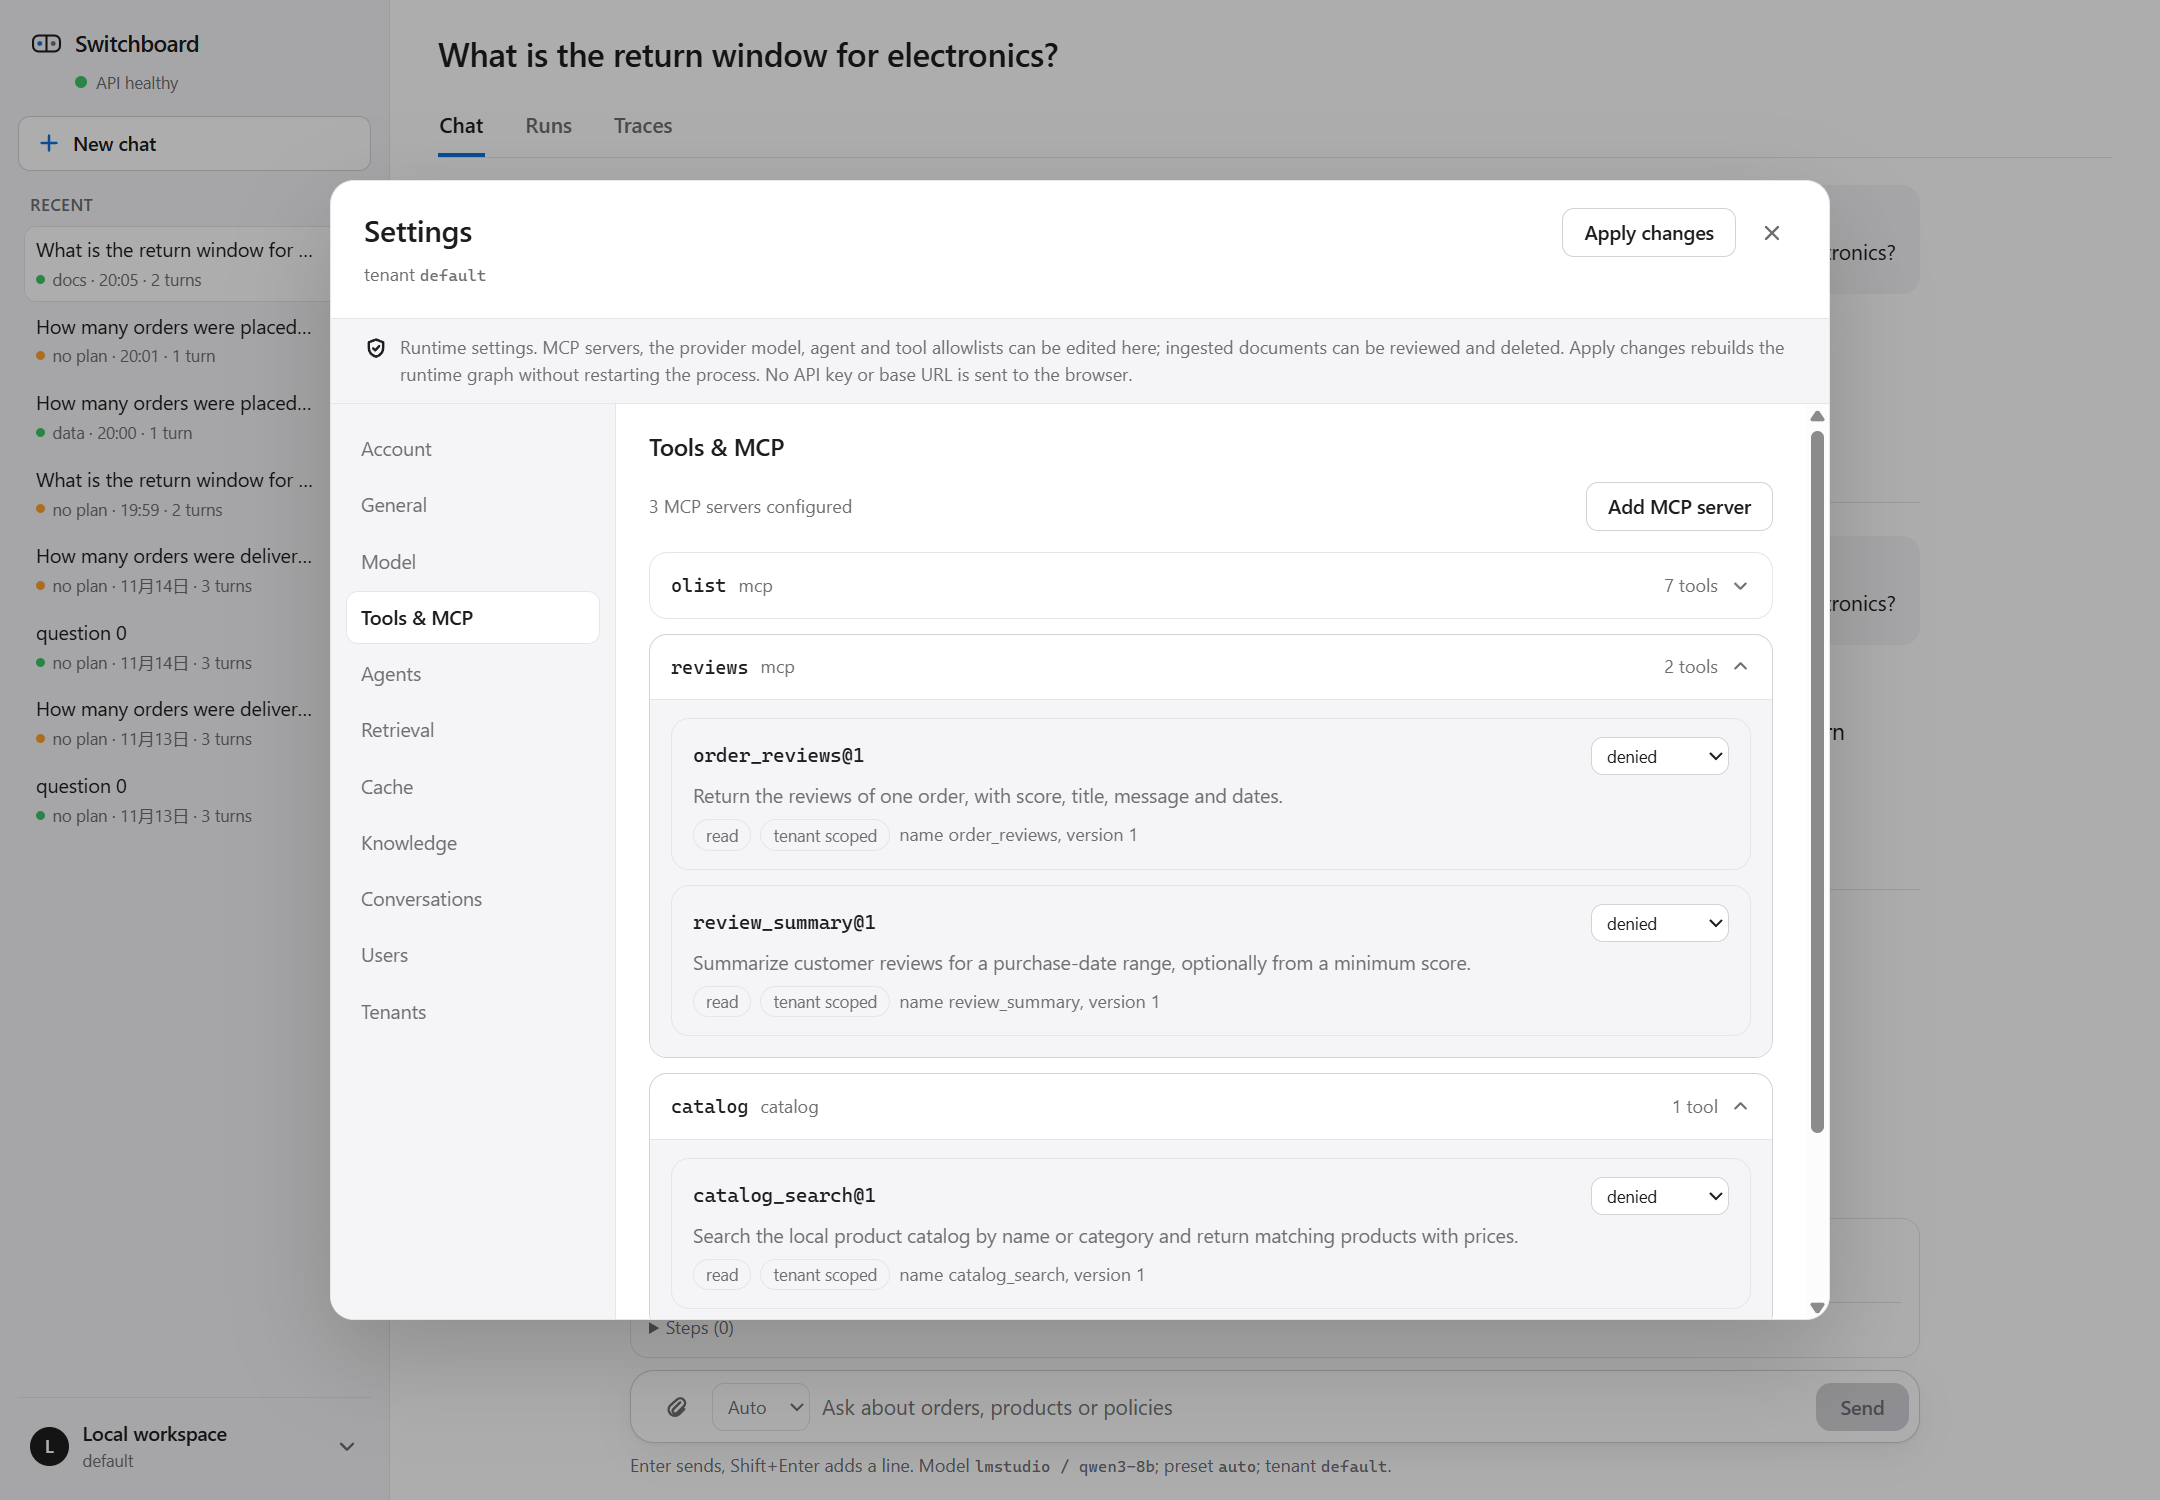
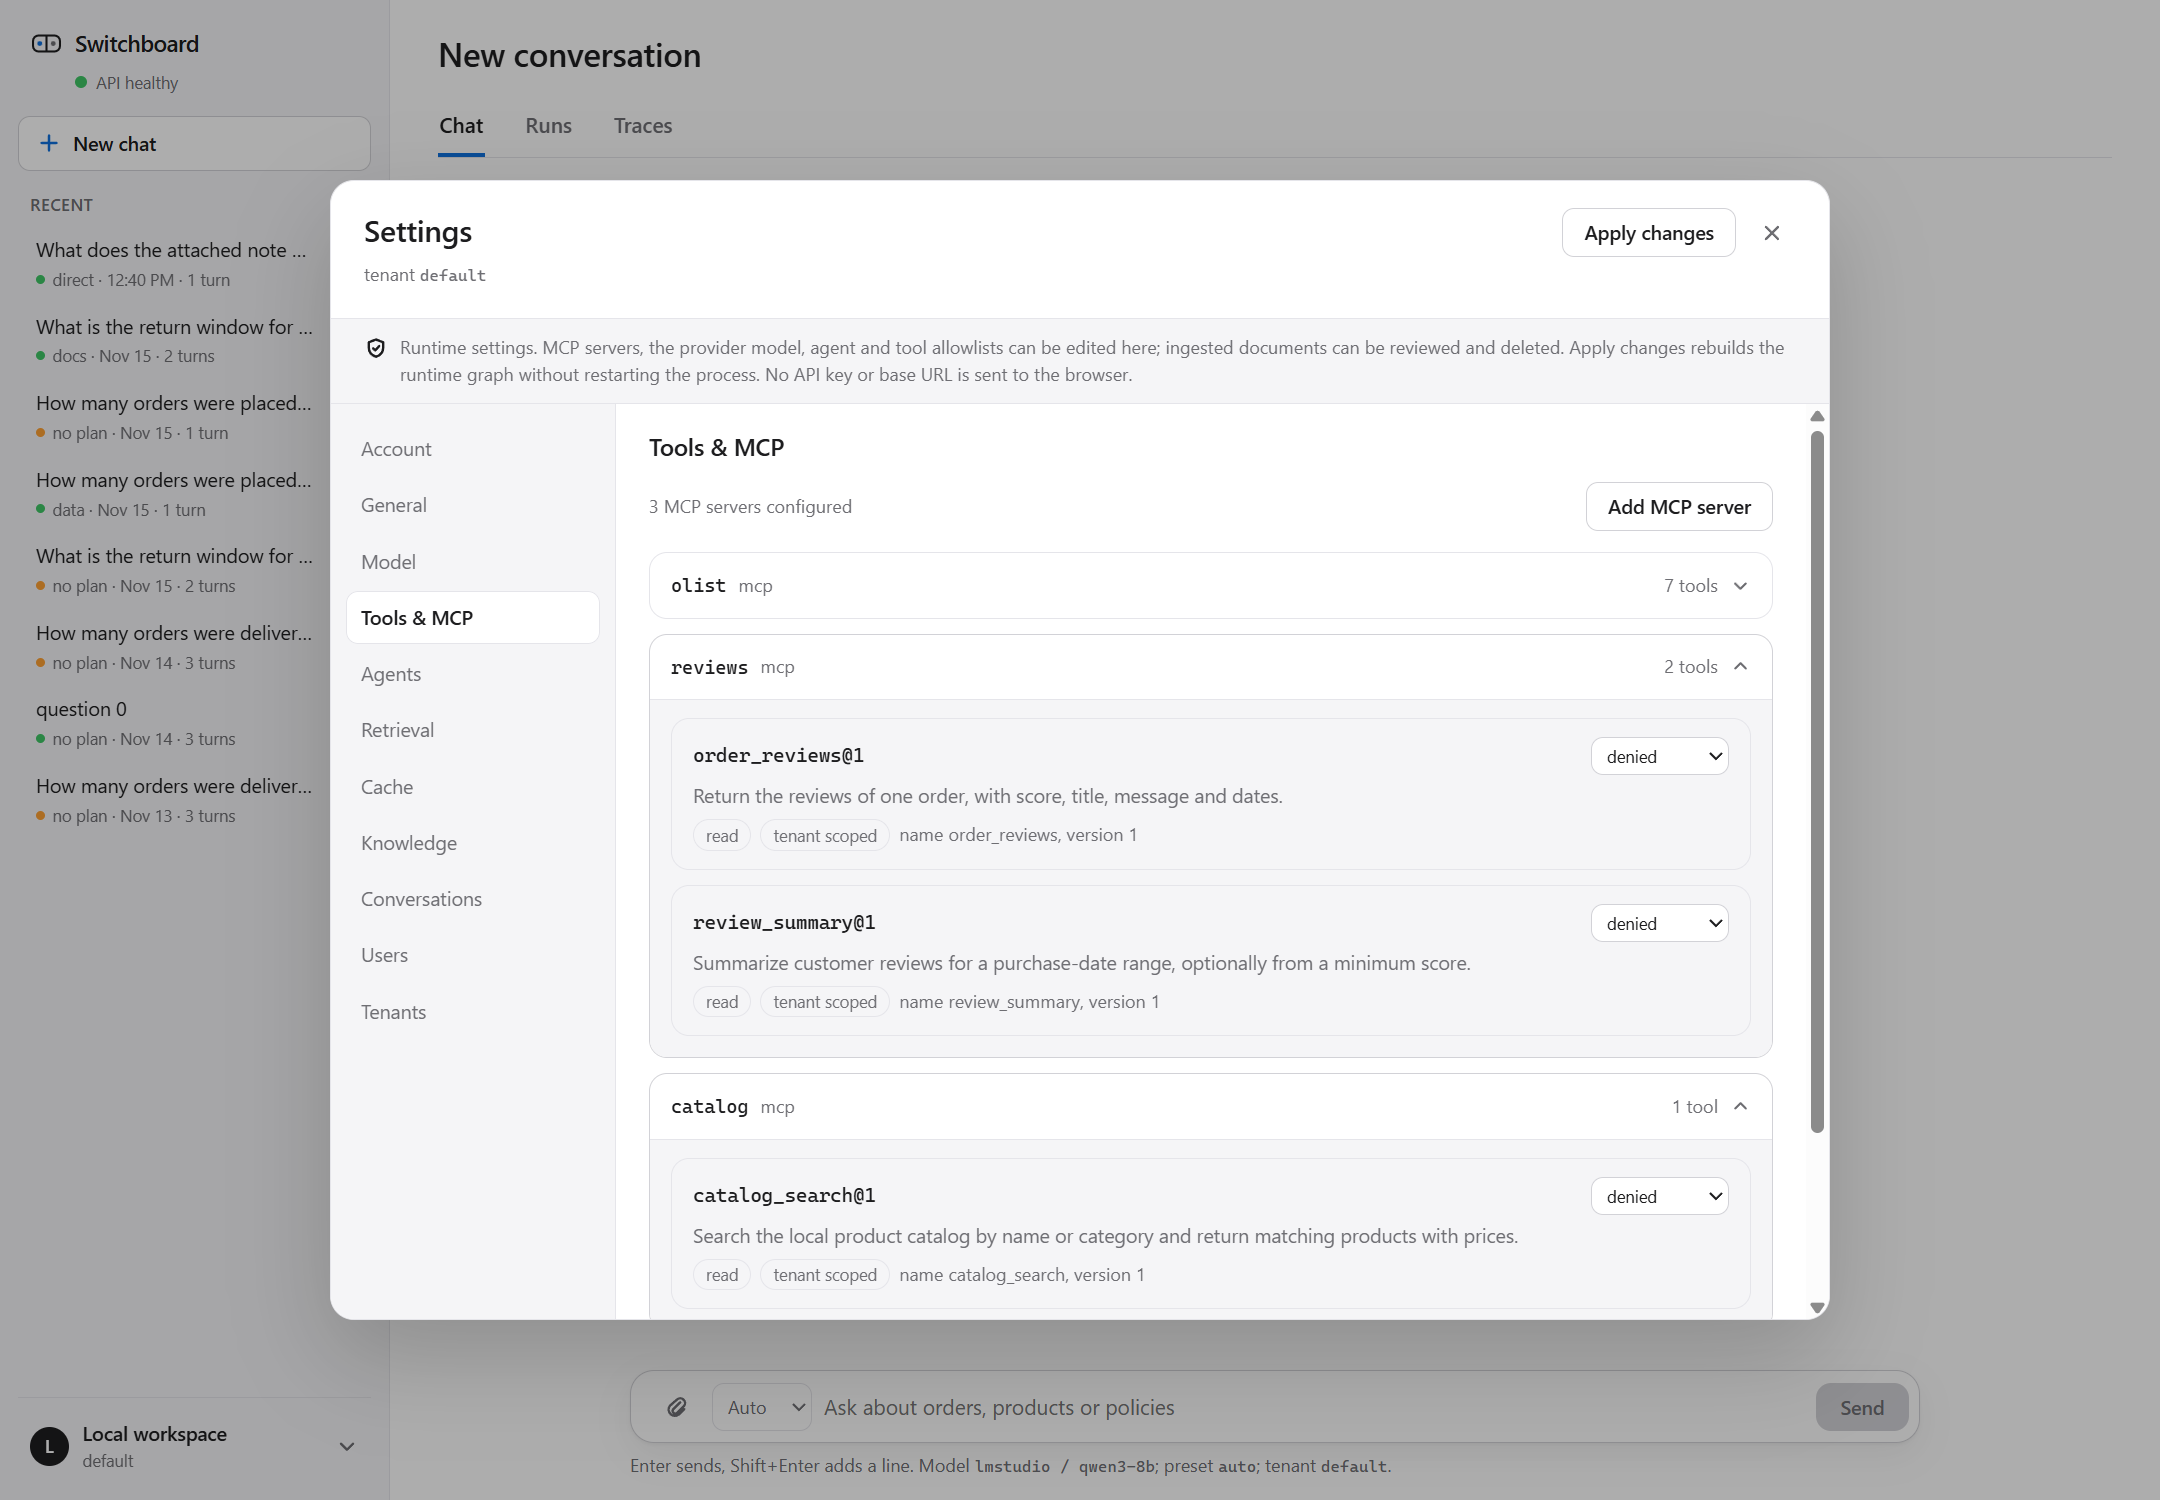
V3.08: run the catalog as a standalone MCP server

diff --git a/mcp_servers/catalog/server.py b/mcp_servers/catalog/server.py
@@ -1,0 +1,98 @@
+"""Catalog MCP server (V3.08).
+
+A standalone, read-only non-Olist connector. It verifies the signed run token,
+allows only the tenant named by CATALOG_TENANT, and serves one tool from the
+committed catalog JSON. Run with ``python -m mcp_servers.catalog.server``.
+"""
+
+from __future__ import annotations
+
+import json
+import os
+from pathlib import Path
+from typing import Any
+
+from mcp.server.mcpserver import Context, MCPServer
+from mcp.server.mcpserver.exceptions import ToolError
+from pydantic import Field
+from starlette.requests import Request
+from starlette.responses import JSONResponse, Response
+
+from mcp_servers.olist.auth import TokenError, bearer_token, verify_token
+from mcp_servers.olist.settings import load_manifest
+
+ROOT = Path(__file__).resolve().parents[2]
+MANIFEST = load_manifest(Path(__file__).with_name("manifest.yaml"))
+DATA = ROOT / "data" / "catalog" / "products.json"
+WIRE_NAME = "catalog_search@1"
+ALLOWED_TENANT = os.environ.get("CATALOG_TENANT", "acme")
+
+mcp = MCPServer(
+    "catalog",
+    version="1.0.0",
+    instructions="Read-only local product catalog. One tool: catalog_search@1.",
+)
+
+
+@mcp.tool(
+    name=WIRE_NAME,
+    description=MANIFEST[WIRE_NAME].description,
+    meta={
+        "switchboard": {
+            "version": MANIFEST[WIRE_NAME].version,
+            "risk": MANIFEST[WIRE_NAME].risk,
+            "tenant_scoped": MANIFEST[WIRE_NAME].tenant_scoped,
+            "sensitive_args": list(MANIFEST[WIRE_NAME].sensitive_args),
+        }
+    },
+)
+async def catalog_search(
+    ctx: Context[Any, Any],
+    query: str = Field(min_length=1, max_length=120),
+    limit: int = Field(default=10, ge=1, le=20),
+) -> dict[str, Any]:
+    try:
+        headers = ctx.headers or {}
+    except ValueError:
+        headers = {}
+    secret = os.environ.get("SWITCHBOARD_RUN_TOKEN_SECRET", "")
+    try:
+        claims = verify_token(bearer_token(headers), secret)
+    except TokenError as exc:
+        raise ToolError(f"unauthorized: {exc}") from exc
+    if claims.tenant_id != ALLOWED_TENANT:
+        raise ToolError(f"tenant {claims.tenant_id!r} may not use this connector")
+    products = json.loads(DATA.read_text(encoding="utf-8"))
+    needle = query.casefold()
+    rows = [
+        item
+        for item in products
+        if needle in str(item.get("name", "")).casefold()
+        or needle in str(item.get("category", "")).casefold()
+    ][:limit]
+    return {
+        "total_rows": len(rows),
+        "summary": {"query": query, "returned": len(rows)},
+        "rows": rows,
+    }
+
+
+@mcp.custom_route("/health", methods=["GET"])  # type: ignore[untyped-decorator]
+async def health(_: Request) -> Response:
+    return JSONResponse(
+        {"status": "ok", "service": "mcp-catalog", "tools": len(MANIFEST)},
+        status_code=200,
+    )
+
+
+def main() -> None:
+    mcp.run(
+        transport="streamable-http",
+        host="0.0.0.0",
+        port=int(os.environ.get("MCP_CATALOG_PORT", "8003")),
+        stateless_http=True,
+    )
+
+
+if __name__ == "__main__":
+    main()

diff --git a/tests/unit/test_reviews_manifest.py b/tests/unit/test_reviews_manifest.py
@@ -16,6 +16,7 @@ REVIEWS_MANIFEST = REPO / "mcp_servers" / "reviews" / "manifest.yaml"
 ENV = {
     "MCP_OLIST_URL": "http://localhost:8001",
     "MCP_REVIEWS_URL": "http://localhost:8002",
+    "MCP_CATALOG_URL": "http://localhost:8003",
     "LMSTUDIO_BASE_URL": "http://localhost:18080/v1",
     "LMSTUDIO_MODEL": "qwen3-8b",
     "LMSTUDIO_EMBEDDING_MODEL": "bge-m3",
@@ -42,7 +43,8 @@ def test_the_committed_config_declares_both_sources() -> None:
     names = {source.name for source in settings.platform.tool_sources}
     assert names == {"catalog", "olist", "reviews"}
     catalog = next(s for s in settings.platform.tool_sources if s.name == "catalog")
-    assert catalog.adapter == "catalog"
+    assert catalog.adapter == "mcp"
+    assert catalog.url == "http://localhost:8003/mcp"
     reviews = next(s for s in settings.platform.tool_sources if s.name == "reviews")
     assert reviews.adapter == "mcp"
     assert reviews.url == "http://localhost:8002/mcp"

diff --git a/mcp_servers/catalog/__init__.py b/mcp_servers/catalog/__init__.py
@@ -1,0 +1,1 @@
+"""Standalone catalog MCP server (V3.08)."""

diff --git a/README.md b/README.md
@@ -87,7 +87,7 @@ uv run --env-file .env switchboard eval compare
 
 ## Quick start
 
-This path is tested from a fresh clone on Windows 11 with Docker Desktop and LM Studio on the host. It starts four containers, loads the 1000-order sample and ingests five synthetic policy documents. The five minute tour is in [docs/demo.md](docs/demo.md).
+This path is tested from a fresh clone on Windows 11 with Docker Desktop and LM Studio on the host. It starts the compose stack, loads the 1000-order sample and ingests five synthetic policy documents. The five minute tour is in [docs/demo.md](docs/demo.md).
 
 ### Prerequisites
 
@@ -145,7 +145,7 @@ docker compose up -d --build
 docker compose ps
 ```
 
-The first build installs Python and Node dependencies inside the images, so it can take a few minutes on a cold cache. Wait until all six services (`postgres`, `mcp-olist`, `mcp-reviews`, `valkey`, `api`, `web`) show `healthy`.
+The first build installs Python and Node dependencies inside the images, so it can take a few minutes on a cold cache. Wait until all services (`postgres`, `mcp-olist`, `mcp-reviews`, `mcp-catalog`, `valkey`, `api`, `web`) show `healthy`.
 
 The `valkey` service is the second cache store from the v2 comparison. The default config keeps `cache: pg_semantic`, so nothing depends on it and the API never contacts it; leave it running (it is idle and small) or stop it with `docker compose stop valkey`. Switching the semantic cache to it is `cache: valkey_semantic` in `config/platform.yaml` plus `VALKEY_URL`, and the measured comparison is in [evals/reports/cache-adapters.md](evals/reports/cache-adapters.md).
 
@@ -201,6 +201,8 @@ On a fresh database this reports `documents added 5, updated 0, unchanged 0` and
 
 The cross-tenant demo uses a second tenant, `seller_a`, restricted to one seller. Give it the same documents with `uv run --env-file .env switchboard ingest data/documents --tenant seller_a`; retrieval, the run list and traces are then tenant isolated in the UI and the API. `seller_a` also allows the two review tools served by the second MCP server, `mcp-reviews` (TypeScript, port 8002): `review_summary@1` and `order_reviews@1`. The default tenant does not, so its tool list and the eval reports are unchanged. To try them, pick tenant `seller_a` in the UI and ask for the review score of an order, or run `uv run --env-file .env pytest tests/contracts/tools/test_mcp_reviews_source.py -q` against the running stack.
 
+The non-Olist connector is `mcp-catalog` on port 8003. It serves `catalog_search@1` over the self-written `data/catalog/products.json` and is allowed only for the `acme` tenant. The demo run `Search the catalog for 'Acme Wireless Mouse' and give its price.` with preset `data` returned `The price of the Acme Wireless Mouse is $39.00 [t1].` in 27.8 s.
+
 ### 7. Open it
 
 | What | URL |
@@ -212,6 +214,7 @@ The cross-tenant demo uses a second tenant, `seller_a`, restricted to one seller
 | Health through the web proxy | http://localhost:8080/api/health |
 | Tool server health | http://localhost:8001/health |
 | Reviews tool server health | http://localhost:8002/health |
+| Catalog tool server health | http://localhost:8003/health |
 
 Open the chat page, keep tenant `default` and ask:
 
